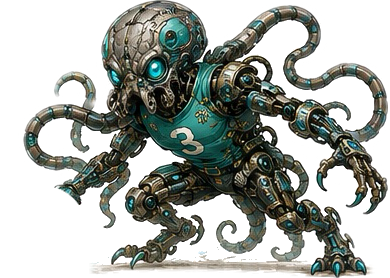
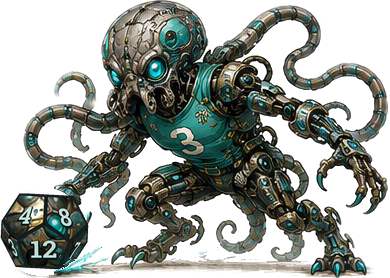
Portraits: Synapse's ball is a d12
Replaces the previous commit's cut-out: Synapse now holds a d12 like the
other eighteen from #370. Built from the original painting (d6a320e):
box_art's dodecahedron seen corner-on, wearing the painted ball's bronze
panels and teal lens, faces 12, 4 and 8 with 3 and 7 on the sides, each
numeral drawn in its face's own plane and tinted teal so the cut-out
check keeps it. The kick's spark goes back in front of the die, and one
corner meets the cuff of the arm that touched the ball. The cards.md
note and the revert guide are updated with the new hash.

Claude-Session: https://claude.ai/code/session_01AJf7Vj8ySyT11UmWCknCw5

Changed region(s): [[0.0, 0.6619, 0.2769, 1.0]]

diff --git a/docs/portrait-d12-revert.md b/docs/portrait-d12-revert.md
@@ -298,15 +298,16 @@ foreshortened one on its top face and sometimes a sliver at one side.
 
 ## Not part of #370
 
-- **Synapse**'s d12 was drafted and not taken. Instead, after #370, its ball
-  was cut out of the painting entirely: **before** `b26371638600` (207,084)
-  → **after** `744ddc13fb25` (188,334). The ball, the kick's spark, and the
-  ball's shadow were made transparent, and the ground scuff fades in where the
-  ball used to cover its end. Nothing was painted in; the canvas is still
-  390x278. To put the ball back, restore from `d6a320e` as in steps 2-5
-  (`git checkout d6a320e -- d12ball/images/player_images/Synapse.png`) and
-  delete the "Synapse holds no ball" sentence from the `cards.md` note. No
-  committed figure, the box cover or the sale sheet draws Synapse. It appears
+- **Synapse**'s d12 was drafted during #370 and not taken; its ball became
+  a d12 afterwards, in its own PR: **before** `b26371638600` (207,084) →
+  **after** `7595af70ee62` (207,894). Cyborg d12 (the ball's own bronze panels
+  and teal lens, dark teal seams), faces 12, 4, 8 with 3 and 7 on the sides.
+  The ball was taken out inside its painted circle (centre 42.5,230, radius
+  42) and the die set in at centre 44.5,231.5 with a corner reaching the arm's
+  cuff, which sits on the ball's rim and so was kept; the kick's spark was put
+  back over the die. Revert it as in steps 2-6: restore from `d6a320e` and
+  change the "Synapse came later" sentence in the `cards.md` note. No
+  committed figure, the box cover or the sale sheet draws Synapse; it appears
   on its player card, in Discord, in the web app, and on the landing page's
   Cyborgs card (rebuild and redeploy).
 - The **17 portraits with no ball** (Blazebulk, Brightburn, Bulwark,

diff --git a/docs/design/cards.md b/docs/design/cards.md
@@ -446,11 +446,12 @@ python3 scripts/render_player_cards.py --fronts-only   # the old one-sided run
   visible pair does, and 6 and 9 carry a dot. What stood in front of a ball
   -- a hand, a toe, flames -- was put back over the die from the painting.
   Kindlefinger kept its painted die and had its glyphs painted out and
-  numbered. **Synapse holds no ball at all**: its d12 draft was not taken,
-  and the round ball was cut out instead (2026-09-27) -- the ball, the kick's
-  spark and the ball's shadow on the scuff, with the scuff faded in where the
-  ball had covered its end. The arm that touched the ball now ends in its own
-  cuff. Putting any of these back to its painting is
+  numbered. **Synapse came later** (2026-09-27): its first d12 draft was not
+  taken, and its ball became a die in a second pass -- the same solid seen
+  corner-on, wearing its ball's bronze panels and teal lens, numbered in
+  teal-tinted numerals, with the kick's spark put back in front of it and a
+  corner reaching the cuff of the arm that touched the ball. Putting any of
+  these back to its painting is
   [docs/portrait-d12-revert.md](../portrait-d12-revert.md), portrait by
   portrait.
   - **A light grey on a die is tinted, never left colourless.** A silver
